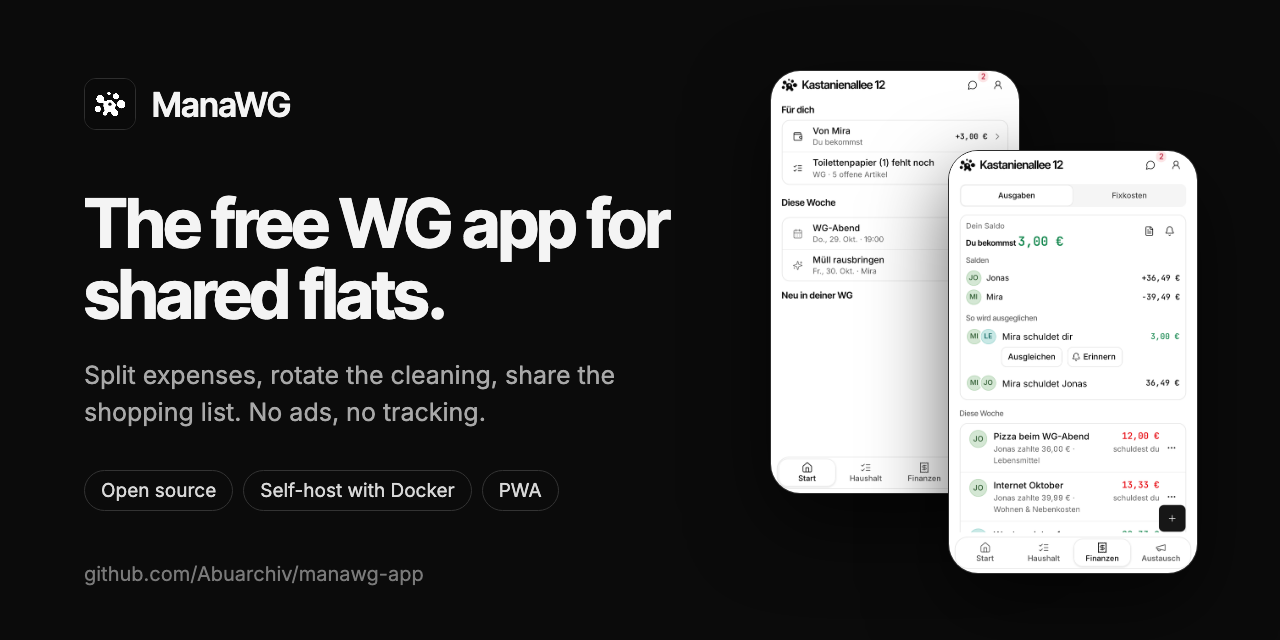
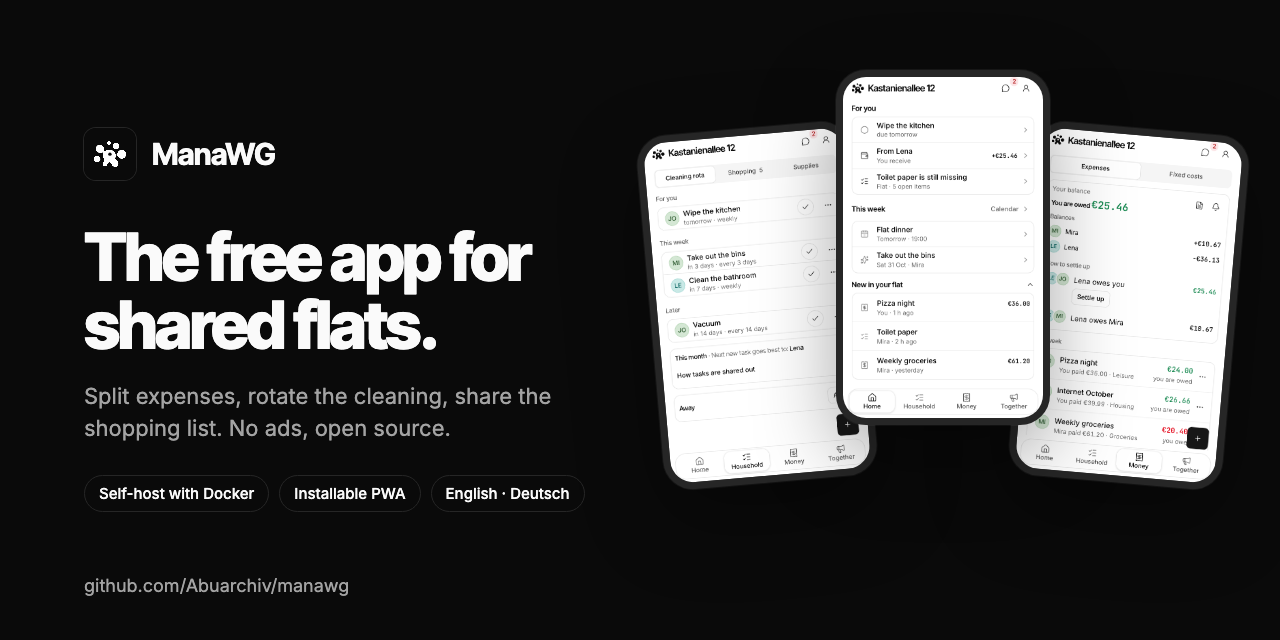
Add a cover image, hosted versus self-hosted table and voting roadmap to the README
The social preview now shows the English interface and the current
repository URL. The README opens with a light and dark cover, points to
the live demo, compares app.manawg.com with a self-hosted instance, and
explains how feature requests are voted on and translated.

diff --git a/README.md b/README.md
@@ -1,18 +1,19 @@
-<p align="center"><img src="apps/web/public/icon.svg" width="88" alt="ManaWG logo"></p>
-
-<h1 align="center">ManaWG</h1>
-
 <p align="center">
-  <strong>The free, open-source app for shared flats: split expenses, rotate chores, share the shopping list.</strong>
+  <a href="https://manawg.com/en">
+    <picture>
+      <source media="(prefers-color-scheme: dark)" srcset="docs/screenshots/cover-dark.webp">
+      <img src="docs/screenshots/cover-light.webp" alt="ManaWG: the free app for shared flats. Three phone screens show the home overview, the cleaning rota and the expenses with who owes whom.">
+    </picture>
+  </a>
 </p>
 
 <p align="center">
-  <a href="https://app.manawg.com"><strong>Try it</strong></a> ·
+  <a href="https://app.manawg.com"><strong>Use it free</strong></a> ·
+  <a href="https://manawg.com/en">Live demo</a> ·
   <a href="#self-hosting">Self-host</a> ·
-  <a href="#contributing">Contribute</a> ·
   <a href="docs/README.md">Docs</a> ·
-  <a href="https://github.com/Abuarchiv/manawg/discussions">Discussions</a> ·
-  <a href="https://manawg.com">Website</a>
+  <a href="#contributing">Contribute</a> ·
+  <a href="https://github.com/Abuarchiv/manawg/discussions">Discussions</a>
 </p>
 
 <p align="center">
@@ -23,62 +24,57 @@
   <a href="https://codespaces.new/Abuarchiv/manawg"><img src="https://img.shields.io/badge/open%20in-Codespaces-181717?logo=github" alt="Open in GitHub Codespaces"></a>
 </p>
 
-<p align="center">
-  <img src="docs/screenshots/home.png" width="24%" alt="ManaWG home screen with the shared flat overview">
-  <img src="docs/screenshots/expenses.png" width="24%" alt="ManaWG expenses: who paid what and who owes whom">
-  <img src="docs/screenshots/chores.png" width="24%" alt="ManaWG cleaning schedule with rotating chores">
-  <img src="docs/screenshots/shopping.png" width="24%" alt="ManaWG shared shopping list">
-</p>
+**ManaWG** is the free, open-source app for shared flats. It keeps the expenses, cleaning rota,
+shopping list, calendar and chat of a flat in one place, on every flatmate's phone. A *WG*
+(*Wohngemeinschaft*) is the German word for a shared flat.
 
-ManaWG keeps the expenses, chores, shopping list and calendar of a shared flat in one app. A *WG*
-(*Wohngemeinschaft*) is the German word for a shared flat. Use it for free at
-[app.manawg.com](https://app.manawg.com), or run your own instance with Docker.
+- **Expenses that settle themselves:** split evenly or by amount, see who owes whom, settle up
+  in as few transfers as possible.
+- **A cleaning rota that is fair:** chores rotate between flatmates and skip whoever is away.
+- **One shopping list for the flat,** plus household supplies, a shared calendar, chat and
+  pinboard.
+- **An app without an app store:** install it from the browser on Android and iPhone; it keeps
+  working offline.
+- **Yours to run:** no ads, Apache-2.0, and one `docker compose up` for your own instance.
+
+> [!TIP]
+> No account needed to look around: the [live demo on manawg.com](https://manawg.com/en) ends with
+> a phone showing the real app on sample data, and you can tap through it.
+
+## Contents
+
+[Features](#features) · [Why ManaWG](#why-manawg) · [Get started](#get-started) ·
+[Self-hosting](#self-hosting) · [Develop](#develop) · [Feedback and roadmap](#feedback-and-roadmap) ·
+[Contributing](#contributing) · [Translations](#translations) · [License](#license)
 
 ## Features
 
-**Money**
+<p align="center">
+  <img src="docs/screenshots/home.png" width="24%" alt="Home: what is due for you, this week's dates and what is new in the flat">
+  <img src="docs/screenshots/expenses.png" width="24%" alt="Expenses: your balance, who owes whom and how to settle up">
+  <img src="docs/screenshots/chores.png" width="24%" alt="Cleaning rota: chores due for you, upcoming ones and who is away">
+  <img src="docs/screenshots/shopping.png" width="24%" alt="Shopping list with suggestions for the flat">
+</p>
 
-- Split expenses evenly or by custom amounts and see who owes whom.
-- Settle up with as few transfers as possible, and send payment reminders.
-- Recurring costs such as rent and utilities, and a monthly statement by mail.
-- Import from Splitwise or Splid (CSV), or from a screenshot; the text recognition runs in your
-  browser.
-
-**Chores**
-
-- A cleaning rota that rotates between flatmates and takes absences into account.
-- Reminders for chores that are due.
-
-**Shared life**
-
-- One shopping list for the flat, plus a list of household supplies.
-- A shared calendar with recurring dates, reminders and an iCal feed for your calendar app.
-- A flat chat and a pinboard for announcements.
-
-**On your phone**
-
-- Installs from the browser as an app (PWA) on Android and iPhone, with push notifications.
-- Works offline: new expenses, chores, shopping items and announcements wait on the phone and are
-  sent once you are back online, without creating duplicates.
-- English and German, following your device language.
-
-**Your data**
-
-- Export a WG as JSON or CSV, and delete your account at any time.
-- No ads and no tracking cookies. On a self-hosted instance, error reporting and analytics stay off
-  unless you configure them.
+| | |
+| --- | --- |
+| **Money** | Even or custom splits · balances and settle-up suggestions with as few transfers as possible · payment reminders · recurring costs such as rent and internet · a monthly statement by mail · import from Splitwise or Splid (CSV) or from a screenshot, with the text recognition running in your browser |
+| **Chores** | Rotating cleaning rota · absences taken into account · reminders when a chore is due |
+| **Shared life** | Shopping list and household supplies · calendar with recurring dates, reminders and an iCal feed · flat chat · pinboard for announcements |
+| **On your phone** | Installable PWA on Android and iPhone · push notifications · offline: new expenses, chores, shopping items and announcements wait on the phone and sync without duplicates · English and German, following the device language |
+| **Your data** | Export a WG as JSON or CSV · delete your account at any time · no ads, no tracking cookies · up to 20 members per WG |
 
 ## Why ManaWG
 
 A typical flat uses a bill splitter such as Splitwise for the money, a chore app for the cleaning
 rota and a group chat for everything else. That works, but the pieces do not know about each
 other: the person who is away still gets the bathroom, and the shopping list lives in a chat
-scroll. ManaWG keeps expenses, chores, shopping, calendar and chat in one app for one flat.
+scroll. ManaWG keeps all of it in one app for one flat.
 
-If you only need to split bills and your flat already likes Splitwise, you can import your history
-and try ManaWG next to it.
+If you only need to split bills and your flat already likes Splitwise, import your history and try
+ManaWG next to it.
 
-### Principles
+What we hold on to:
 
 - **Phone first.** Flatmates use it standing in the kitchen or the supermarket. Every screen is
   one column, on every screen size.
@@ -88,6 +84,19 @@ and try ManaWG next to it.
   retried over a bad connection is never booked twice.
 - **Private by default.** No ads, cookieless and minimal analytics on the hosted instance, none on
   yours.
+
+## Get started
+
+| | [app.manawg.com](https://app.manawg.com) | Your own instance |
+| --- | --- | --- |
+| **Setup** | Sign up with an email code or Google, create a WG, share the invite link | `./docker/setup.sh` and `docker compose up -d` on any machine with Docker |
+| **Cost** | Free | Your server |
+| **Updates** | Deployed for you from `main` | `git pull`, then rebuild; migrations run on start |
+| **Data location** | Database and servers in Frankfurt, Germany (EU) | Wherever your server is |
+| **Analytics** | Cookieless page views and counts of new and joined WGs, nothing else | Off |
+| **Mail** | Included | Your SMTP server, or Mailpit for testing |
+
+Either way the app is the same code from this repository.
 
 ## Self-hosting
 
@@ -110,7 +119,7 @@ HTTPS, mail, Google sign-in, updates, backups, and the alternative setup on Verc
 
 ## Develop
 
-You need neither a database nor accounts. Fixture mode serves a sample WG from memory.
+You need neither a database nor accounts: fixture mode serves a sample WG from memory.
 
 **In the browser:** open the repository in
 [GitHub Codespaces](https://codespaces.new/Abuarchiv/manawg) (or any dev container) and run the
@@ -127,7 +136,8 @@ pnpm --filter @manawg/web dev:fixtures
 Then open [localhost:3000/wg/MTE8PZAT](http://localhost:3000/wg/MTE8PZAT).
 [docs/development.md](docs/development.md) lists all commands, tests and quality gates.
 
-### How it fits together
+<details>
+<summary><strong>How it fits together</strong></summary>
 
 ```mermaid
 flowchart LR
@@ -149,35 +159,47 @@ flowchart LR
 [docs/architecture.md](docs/architecture.md) explains the layers, the money model, idempotency
 and the offline queue.
 
-## Project status
+</details>
+
+## Feedback and roadmap
 
 ManaWG is in daily use at [app.manawg.com](https://app.manawg.com). There are no versioned
-releases yet: `main` is always deployable, the hosted instance runs it, and self-hosted instances
-update by pulling `main` (see [Updating](docs/self-hosting.md#updating)); new database migrations
-are applied automatically before the new version starts.
+releases yet: `main` is always deployable, and the hosted instance runs it.
 
-Ideas and plans are discussed openly in
-[Discussions → Ideas](https://github.com/Abuarchiv/manawg/discussions/categories/ideas).
+What gets built next is decided in the open:
+
+- **Vote** with 👍 on the feature requests you want; the
+  [most-voted list](https://github.com/Abuarchiv/manawg/issues?q=is%3Aissue+is%3Aopen+label%3Aenhancement+sort%3Areactions-%2B1-desc)
+  is the roadmap.
+- **Propose** something new in
+  [Discussions → Ideas](https://github.com/Abuarchiv/manawg/discussions/categories/ideas), or as a
+  [feature request](https://github.com/Abuarchiv/manawg/issues/new?template=feature_request.yml).
+- **Criticise.** If something is confusing, slow or wrong,
+  [say so](https://github.com/Abuarchiv/manawg/issues/new/choose). That is a contribution too.
 
 ## Contributing
 
-Contributions are welcome: code, bug reports, documentation, translations and ideas. Criticism too:
-if something is confusing, slow or wrong, an issue about it is a contribution.
+Code, bug reports, documentation, translations and ideas are all welcome.
 
-- **Start small.** Issues labelled
-  [good first issue](https://github.com/Abuarchiv/manawg/labels/good%20first%20issue) are
-  small and written up for a first pull request. When none are open, start a Discussion or open an
-  issue first.
-- **Pick something bigger.** Issues labelled
+- **First time?** Issues labelled
+  [good first issue](https://github.com/Abuarchiv/manawg/labels/good%20first%20issue) are small
+  and written up for a first pull request.
+- **Something bigger?** Issues labelled
   [help wanted](https://github.com/Abuarchiv/manawg/labels/help%20wanted) are open to anyone.
-- **Translate.** All texts live in two catalogs; see
-  [Texts and translations](CONTRIBUTING.md#texts-and-translations).
 
-[CONTRIBUTING.md](CONTRIBUTING.md) walks through your first pull request. The website
-[manawg.com](https://manawg.com) is open source as well, in
+[CONTRIBUTING.md](CONTRIBUTING.md) walks through your first pull request in five minutes of setup.
+The website [manawg.com](https://manawg.com) is open source too:
 [Abuarchiv/manawg-landing](https://github.com/Abuarchiv/manawg-landing).
 
-If ManaWG is useful to your flat, a star helps other flats find it.
+Want to say thanks? A ⭐ helps other flats find ManaWG.
+
+## Translations
+
+ManaWG speaks English and German. Every text lives in a catalog under
+`apps/web/src/shared/i18n/messages/`, one folder per language, so a wording fix is a one-line pull
+request. Want ManaWG in your language? Open an issue labelled
+[i18n](https://github.com/Abuarchiv/manawg/labels/i18n) and we will set it up together; see
+[Texts and translations](CONTRIBUTING.md#texts-and-translations).
 
 ## Community and support
 

diff --git a/CONTRIBUTING.md b/CONTRIBUTING.md
@@ -14,6 +14,9 @@ need to be a developer to report a problem or fix a typo.
 - **Bugs and self-hosting problems:** open an
   [issue](https://github.com/Abuarchiv/manawg/issues/new/choose) with steps to reproduce. For
   security problems use [SECURITY.md](SECURITY.md) instead.
+- **Feature requests:** search the
+  [open requests](https://github.com/Abuarchiv/manawg/issues?q=is%3Aissue+is%3Aopen+label%3Aenhancement+sort%3Areactions-%2B1-desc)
+  first and vote with 👍 on the ones you want; the most-voted ones are built first.
 - **Small fixes** (typos, obvious bugs): open a pull request directly.
 - **Features and larger changes:** open an issue first and agree on the approach with a
   maintainer before you write the code. ManaWG is deliberately small and phone-first, so not every
